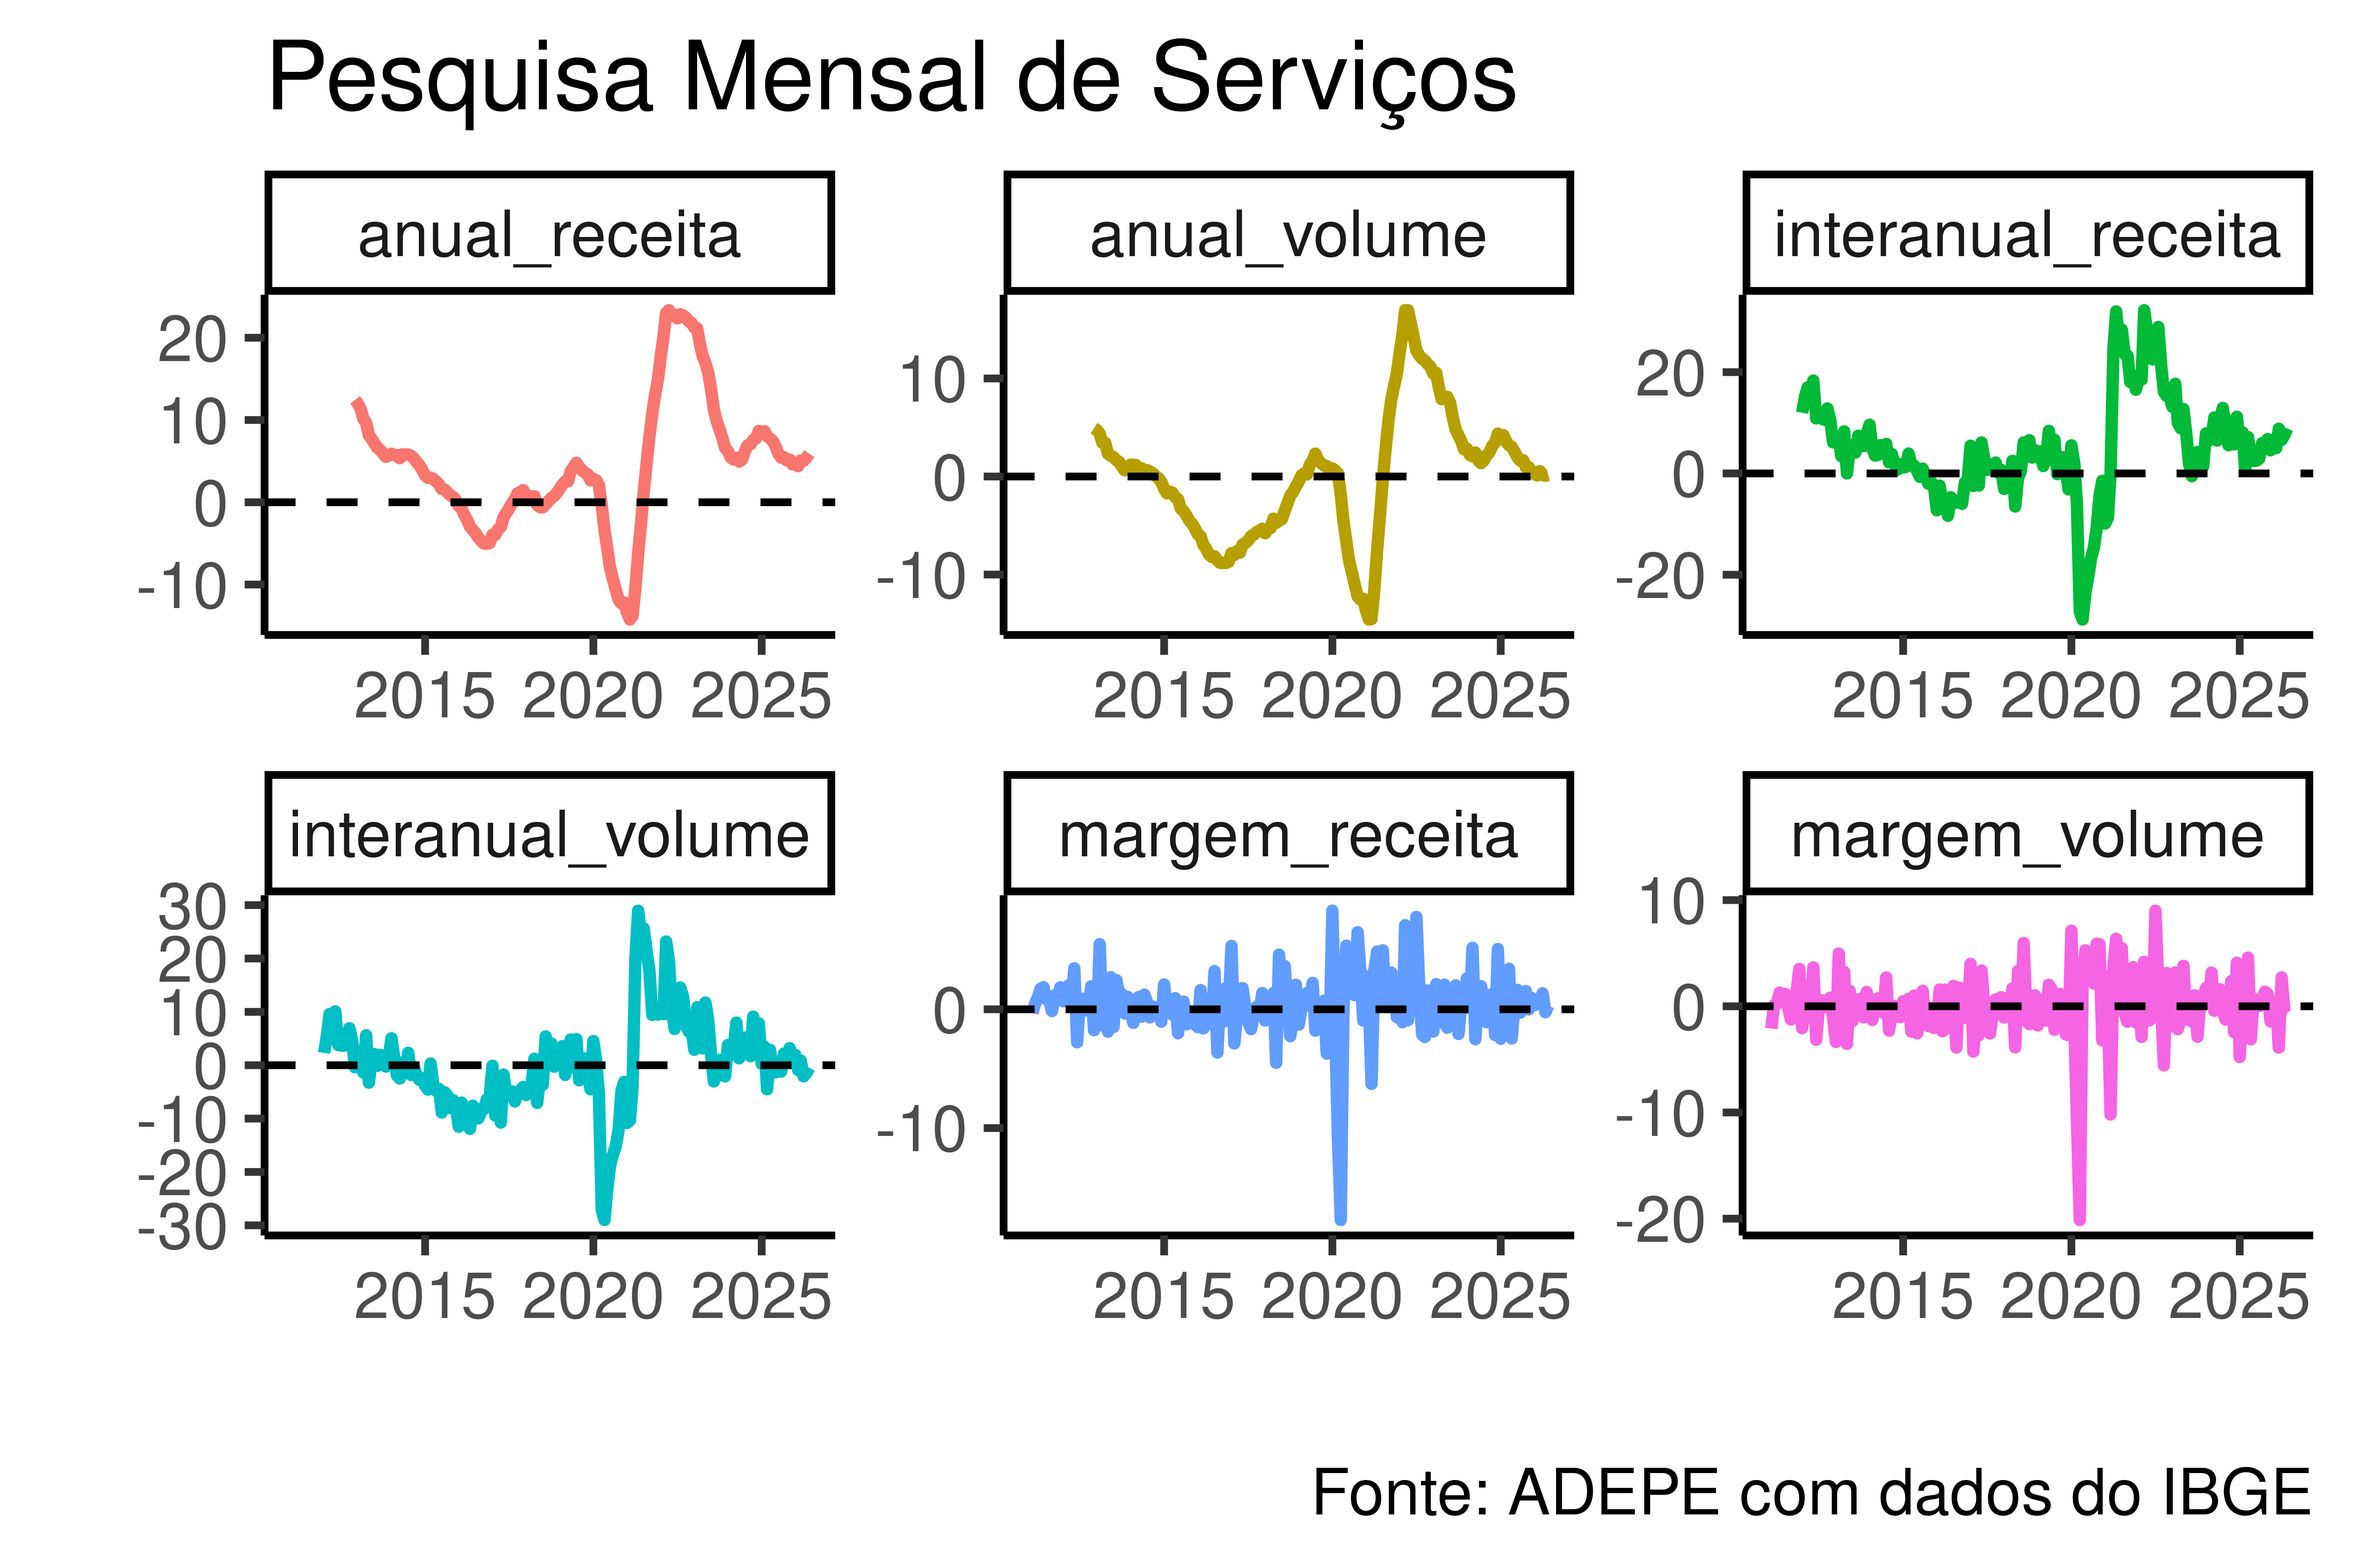
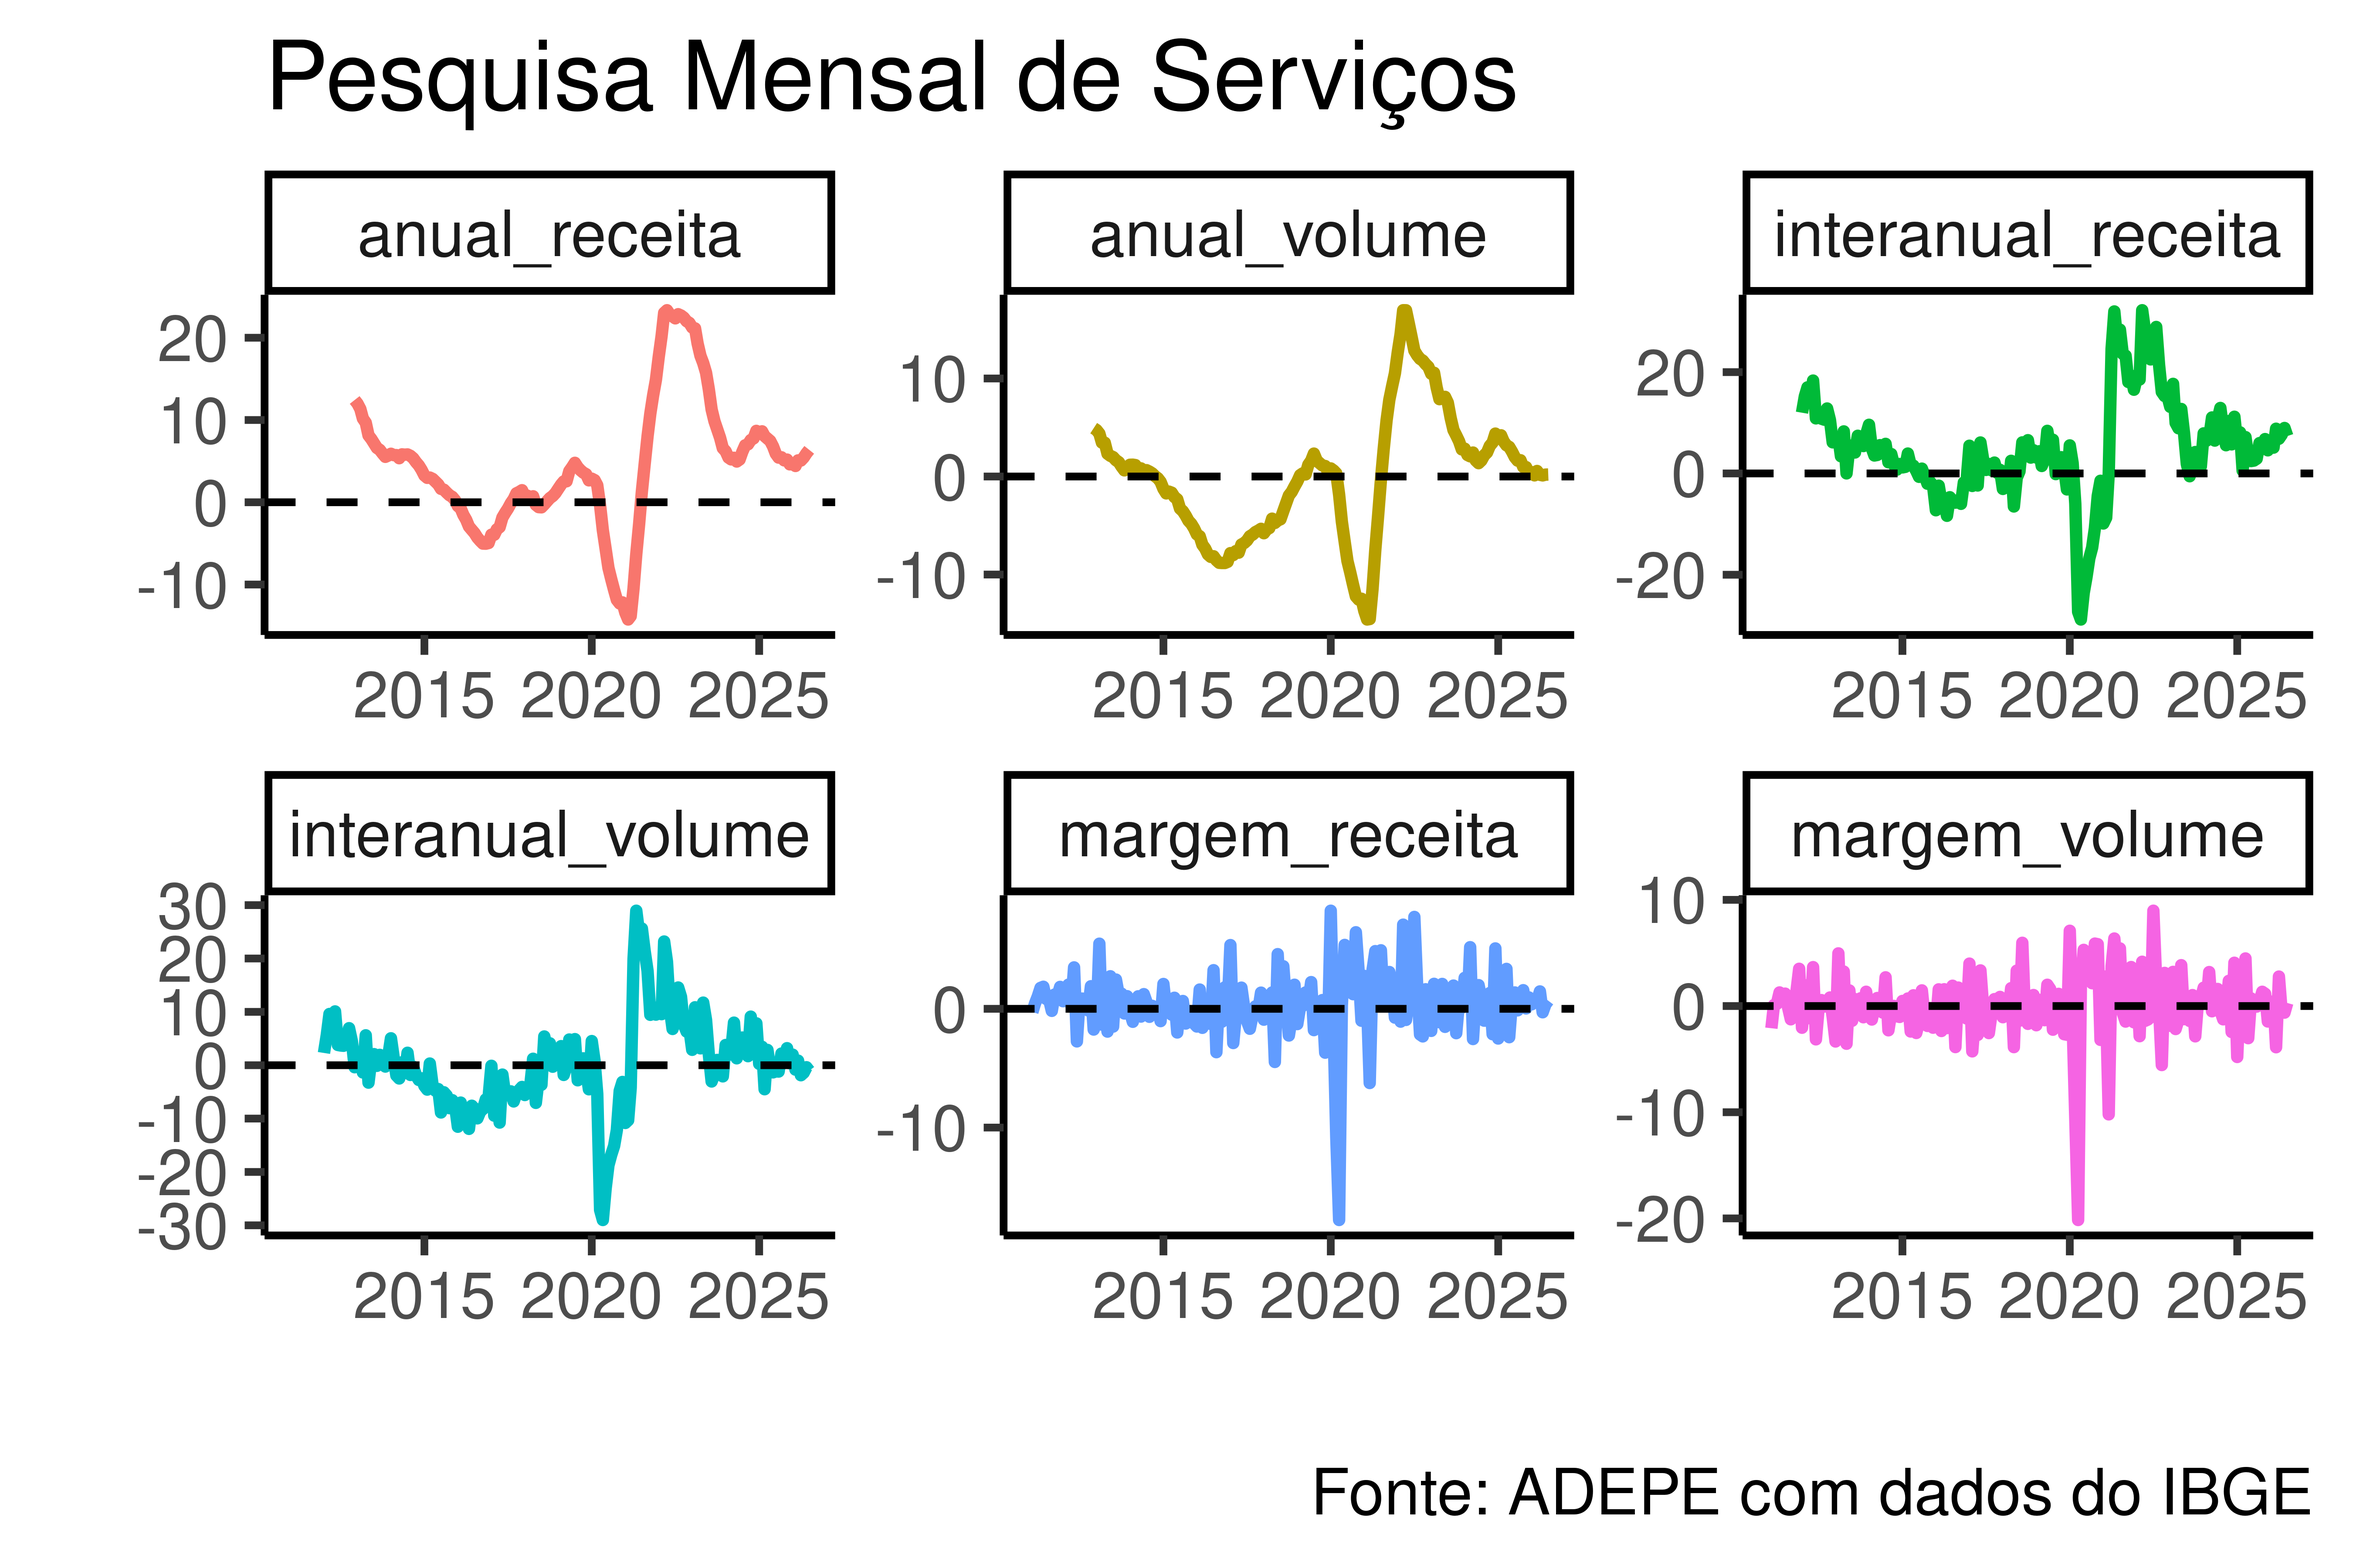
Atualização de relatório automatizada

diff --git a/relatório_nivel_atividade/pesquisas.html b/relatório_nivel_atividade/pesquisas.html
@@ -111,46 +111,46 @@ ul.task-list li input[type="checkbox"] {
 </thead>
 <tbody>
 <tr class="odd">
-<td style="text-align: center;">Jan 2026</td>
-<td style="text-align: center;">29.07</td>
-<td style="text-align: center;">-7.84</td>
-<td style="text-align: center;">-10.97</td>
-<td style="text-align: center;">-0.65</td>
-</tr>
-<tr class="even">
 <td style="text-align: center;">Feb 2026</td>
-<td style="text-align: center;">25.13</td>
+<td style="text-align: center;">24.27</td>
 <td style="text-align: center;">-9.36</td>
-<td style="text-align: center;">-4.71</td>
-<td style="text-align: center;">0.86</td>
+<td style="text-align: center;">-4.69</td>
+<td style="text-align: center;">0.98</td>
 </tr>
-<tr class="odd">
+<tr class="even">
 <td style="text-align: center;">Mar 2026</td>
-<td style="text-align: center;">35.03</td>
+<td style="text-align: center;">52.03</td>
 <td style="text-align: center;">0.19</td>
-<td style="text-align: center;">-3.36</td>
-<td style="text-align: center;">7.61</td>
-</tr>
-<tr class="even">
-<td style="text-align: center;">Apr 2026</td>
-<td style="text-align: center;">-3.81</td>
-<td style="text-align: center;">-0.43</td>
-<td style="text-align: center;">0.86</td>
-<td style="text-align: center;">0.45</td>
+<td style="text-align: center;">-3.34</td>
+<td style="text-align: center;">7.71</td>
 </tr>
 <tr class="odd">
-<td style="text-align: center;">May 2026</td>
-<td style="text-align: center;">-1.37</td>
-<td style="text-align: center;">-0.79</td>
-<td style="text-align: center;">-7.10</td>
-<td style="text-align: center;">-4.78</td>
+<td style="text-align: center;">Apr 2026</td>
+<td style="text-align: center;">7.58</td>
+<td style="text-align: center;">-0.43</td>
+<td style="text-align: center;">0.76</td>
+<td style="text-align: center;">0.55</td>
 </tr>
 <tr class="even">
+<td style="text-align: center;">May 2026</td>
+<td style="text-align: center;">11.05</td>
+<td style="text-align: center;">-0.79</td>
+<td style="text-align: center;">-6.99</td>
+<td style="text-align: center;">-2.48</td>
+</tr>
+<tr class="odd">
 <td style="text-align: center;">Jun 2026</td>
-<td style="text-align: center;">-5.23</td>
+<td style="text-align: center;">6.32</td>
 <td style="text-align: center;">-0.07</td>
-<td style="text-align: center;">-3.92</td>
-<td style="text-align: center;">-4.17</td>
+<td style="text-align: center;">-4.45</td>
+<td style="text-align: center;">-1.89</td>
+</tr>
+<tr class="even">
+<td style="text-align: center;">Jul 2026</td>
+<td style="text-align: center;">1.22</td>
+<td style="text-align: center;">-4.44</td>
+<td style="text-align: center;">-4.31</td>
+<td style="text-align: center;">-4.08</td>
 </tr>
 </tbody>
 </table>
@@ -171,46 +171,46 @@ ul.task-list li input[type="checkbox"] {
 </thead>
 <tbody>
 <tr class="odd">
-<td style="text-align: center;">Jan 2026</td>
-<td style="text-align: center;">-2.21</td>
-<td style="text-align: center;">-0.10</td>
-<td style="text-align: center;">4.34</td>
-<td style="text-align: center;">2.98</td>
+<td style="text-align: center;">Feb 2026</td>
+<td style="text-align: center;">0.38</td>
+<td style="text-align: center;">2.79</td>
+<td style="text-align: center;">2.23</td>
+<td style="text-align: center;">0.59</td>
 </tr>
 <tr class="even">
-<td style="text-align: center;">Feb 2026</td>
-<td style="text-align: center;">0.02</td>
-<td style="text-align: center;">2.87</td>
-<td style="text-align: center;">2.90</td>
-<td style="text-align: center;">0.50</td>
+<td style="text-align: center;">Mar 2026</td>
+<td style="text-align: center;">4.67</td>
+<td style="text-align: center;">-1.13</td>
+<td style="text-align: center;">0.46</td>
+<td style="text-align: center;">0.36</td>
 </tr>
 <tr class="odd">
-<td style="text-align: center;">Mar 2026</td>
-<td style="text-align: center;">-2.33</td>
-<td style="text-align: center;">-1.07</td>
-<td style="text-align: center;">0.52</td>
-<td style="text-align: center;">0.30</td>
-</tr>
-<tr class="even">
 <td style="text-align: center;">Apr 2026</td>
-<td style="text-align: center;">-3.50</td>
-<td style="text-align: center;">2.42</td>
-<td style="text-align: center;">4.55</td>
+<td style="text-align: center;">-2.79</td>
+<td style="text-align: center;">2.38</td>
+<td style="text-align: center;">3.29</td>
 <td style="text-align: center;">1.49</td>
 </tr>
-<tr class="odd">
+<tr class="even">
 <td style="text-align: center;">May 2026</td>
-<td style="text-align: center;">2.18</td>
-<td style="text-align: center;">3.15</td>
-<td style="text-align: center;">-9.18</td>
-<td style="text-align: center;">-3.23</td>
+<td style="text-align: center;">2.82</td>
+<td style="text-align: center;">3.34</td>
+<td style="text-align: center;">-7.64</td>
+<td style="text-align: center;">-1.83</td>
+</tr>
+<tr class="odd">
+<td style="text-align: center;">Jun 2026</td>
+<td style="text-align: center;">-1.12</td>
+<td style="text-align: center;">-3.17</td>
+<td style="text-align: center;">1.62</td>
+<td style="text-align: center;">-0.43</td>
 </tr>
 <tr class="even">
-<td style="text-align: center;">Jun 2026</td>
-<td style="text-align: center;">-0.75</td>
-<td style="text-align: center;">-2.91</td>
-<td style="text-align: center;">2.66</td>
-<td style="text-align: center;">-0.46</td>
+<td style="text-align: center;">Jul 2026</td>
+<td style="text-align: center;">-1.77</td>
+<td style="text-align: center;">-1.78</td>
+<td style="text-align: center;">0.45</td>
+<td style="text-align: center;">-0.66</td>
 </tr>
 </tbody>
 </table>
@@ -274,40 +274,40 @@ Nota
 </thead>
 <tbody>
 <tr class="odd">
-<td style="text-align: left;">2026-01-01</td>
-<td style="text-align: right;">2.21</td>
-<td style="text-align: right;">6.90</td>
-<td style="text-align: right;">7.71</td>
-</tr>
-<tr class="even">
 <td style="text-align: left;">2026-02-01</td>
 <td style="text-align: right;">1.20</td>
-<td style="text-align: right;">5.04</td>
-<td style="text-align: right;">7.39</td>
-</tr>
-<tr class="odd">
-<td style="text-align: left;">2026-03-01</td>
-<td style="text-align: right;">-0.12</td>
-<td style="text-align: right;">9.06</td>
-<td style="text-align: right;">7.52</td>
+<td style="text-align: right;">5.08</td>
+<td style="text-align: right;">7.40</td>
 </tr>
 <tr class="even">
-<td style="text-align: left;">2026-04-01</td>
-<td style="text-align: right;">1.44</td>
-<td style="text-align: right;">8.33</td>
-<td style="text-align: right;">7.61</td>
+<td style="text-align: left;">2026-03-01</td>
+<td style="text-align: right;">-0.18</td>
+<td style="text-align: right;">9.08</td>
+<td style="text-align: right;">7.53</td>
 </tr>
 <tr class="odd">
+<td style="text-align: left;">2026-04-01</td>
+<td style="text-align: right;">1.50</td>
+<td style="text-align: right;">8.36</td>
+<td style="text-align: right;">7.62</td>
+</tr>
+<tr class="even">
 <td style="text-align: left;">2026-05-01</td>
 <td style="text-align: right;">0.46</td>
-<td style="text-align: right;">7.24</td>
-<td style="text-align: right;">7.43</td>
+<td style="text-align: right;">7.27</td>
+<td style="text-align: right;">7.45</td>
+</tr>
+<tr class="odd">
+<td style="text-align: left;">2026-06-01</td>
+<td style="text-align: right;">0.34</td>
+<td style="text-align: right;">8.80</td>
+<td style="text-align: right;">7.53</td>
 </tr>
 <tr class="even">
-<td style="text-align: left;">2026-06-01</td>
-<td style="text-align: right;">0.31</td>
-<td style="text-align: right;">8.64</td>
-<td style="text-align: right;">7.51</td>
+<td style="text-align: left;">2026-07-01</td>
+<td style="text-align: right;">0.10</td>
+<td style="text-align: right;">7.12</td>
+<td style="text-align: right;">7.54</td>
 </tr>
 </tbody>
 </table>
@@ -329,40 +329,40 @@ Nota
 </thead>
 <tbody>
 <tr class="odd">
-<td style="text-align: left;">2026-01-01</td>
-<td style="text-align: right;">0.03</td>
-<td style="text-align: right;">3.24</td>
-<td style="text-align: right;">3.08</td>
-</tr>
-<tr class="even">
 <td style="text-align: left;">2026-02-01</td>
-<td style="text-align: right;">0.08</td>
-<td style="text-align: right;">0.58</td>
-<td style="text-align: right;">2.78</td>
-</tr>
-<tr class="odd">
-<td style="text-align: left;">2026-03-01</td>
-<td style="text-align: right;">-1.01</td>
-<td style="text-align: right;">3.52</td>
-<td style="text-align: right;">2.91</td>
+<td style="text-align: right;">0.09</td>
+<td style="text-align: right;">0.61</td>
+<td style="text-align: right;">2.79</td>
 </tr>
 <tr class="even">
-<td style="text-align: left;">2026-04-01</td>
-<td style="text-align: right;">1.21</td>
-<td style="text-align: right;">2.12</td>
-<td style="text-align: right;">2.93</td>
+<td style="text-align: left;">2026-03-01</td>
+<td style="text-align: right;">-1.04</td>
+<td style="text-align: right;">3.54</td>
+<td style="text-align: right;">2.92</td>
 </tr>
 <tr class="odd">
+<td style="text-align: left;">2026-04-01</td>
+<td style="text-align: right;">1.25</td>
+<td style="text-align: right;">2.15</td>
+<td style="text-align: right;">2.94</td>
+</tr>
+<tr class="even">
 <td style="text-align: left;">2026-05-01</td>
 <td style="text-align: right;">-0.24</td>
-<td style="text-align: right;">0.65</td>
-<td style="text-align: right;">2.65</td>
+<td style="text-align: right;">0.68</td>
+<td style="text-align: right;">2.66</td>
+</tr>
+<tr class="odd">
+<td style="text-align: left;">2026-06-01</td>
+<td style="text-align: right;">0.09</td>
+<td style="text-align: right;">2.16</td>
+<td style="text-align: right;">2.58</td>
 </tr>
 <tr class="even">
-<td style="text-align: left;">2026-06-01</td>
-<td style="text-align: right;">0.02</td>
-<td style="text-align: right;">2.01</td>
-<td style="text-align: right;">2.56</td>
+<td style="text-align: left;">2026-07-01</td>
+<td style="text-align: right;">0.01</td>
+<td style="text-align: right;">0.86</td>
+<td style="text-align: right;">2.41</td>
 </tr>
 </tbody>
 </table>
